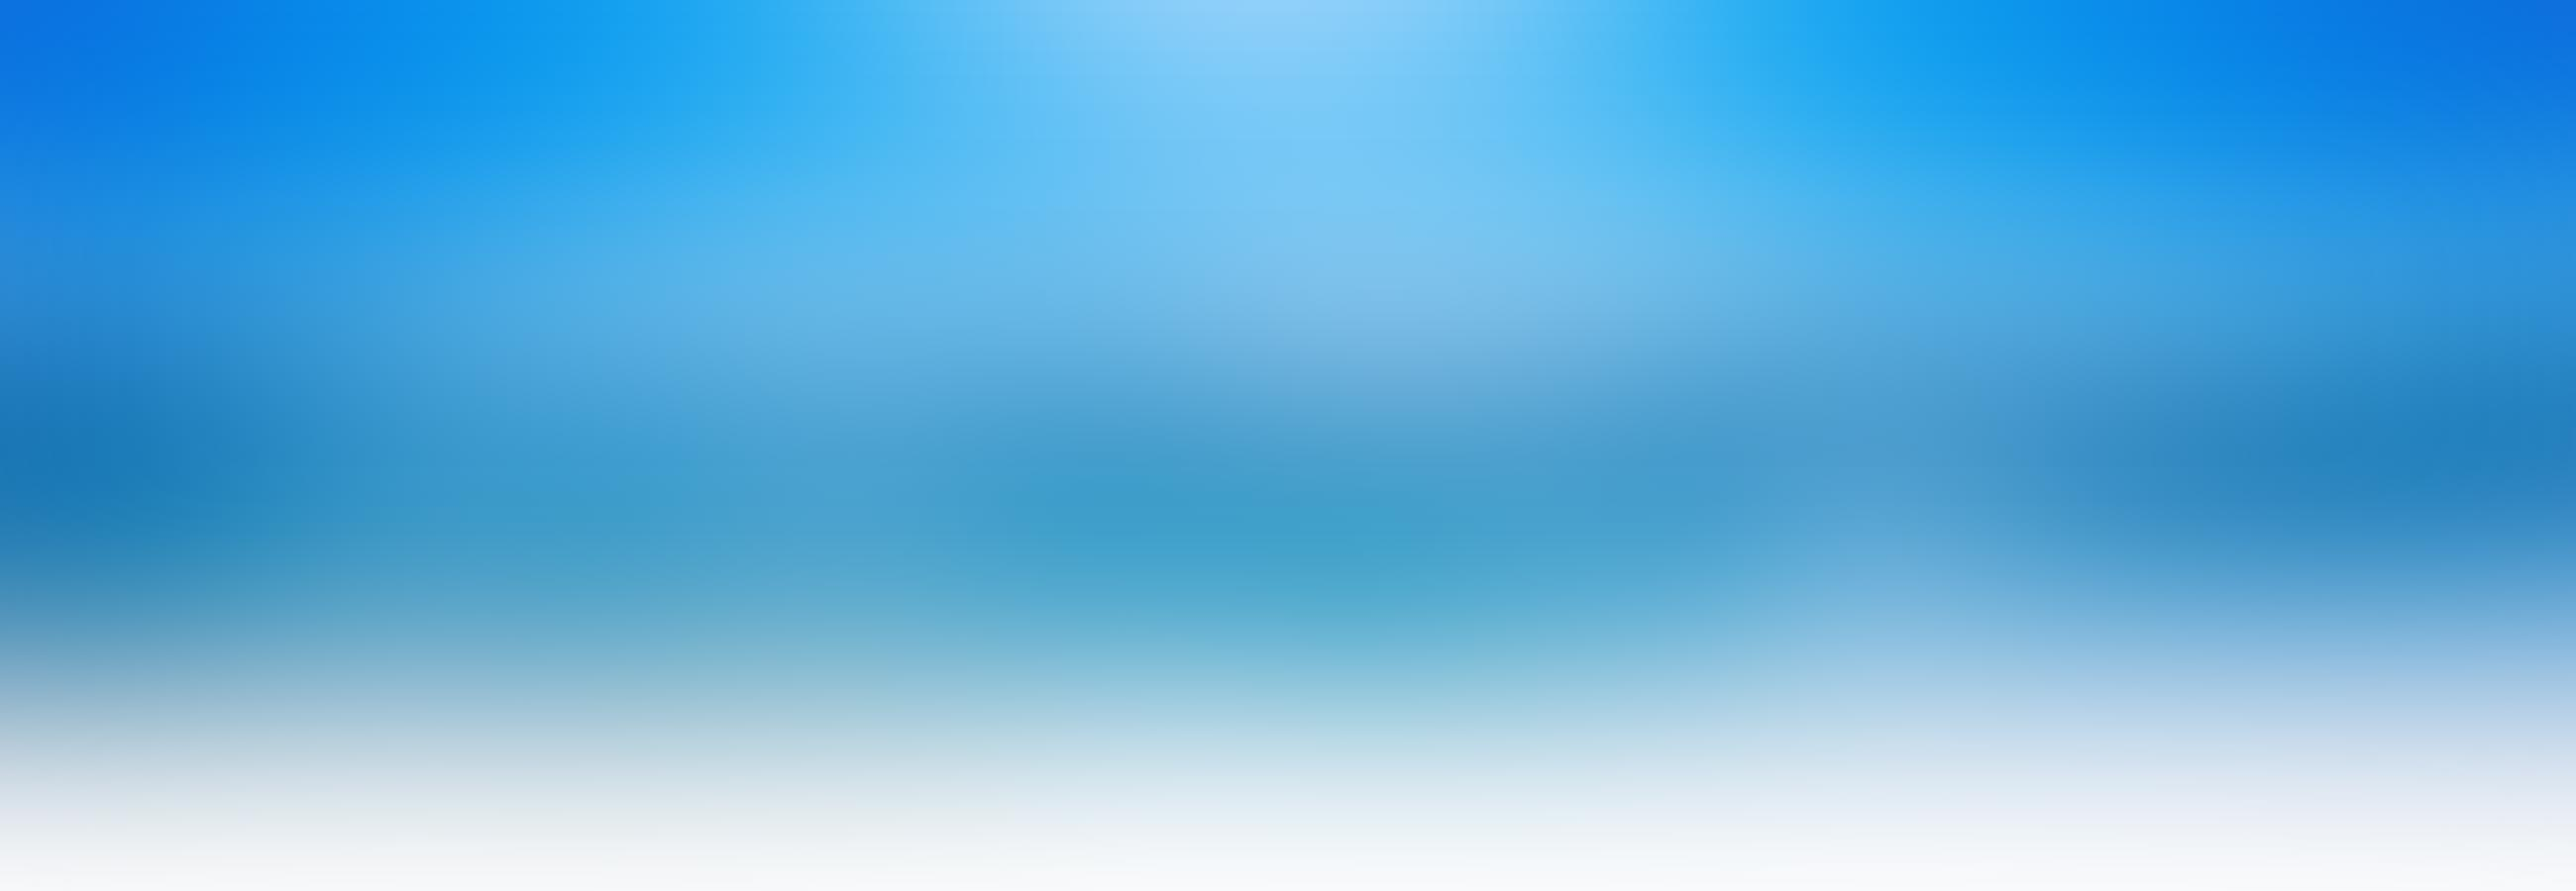
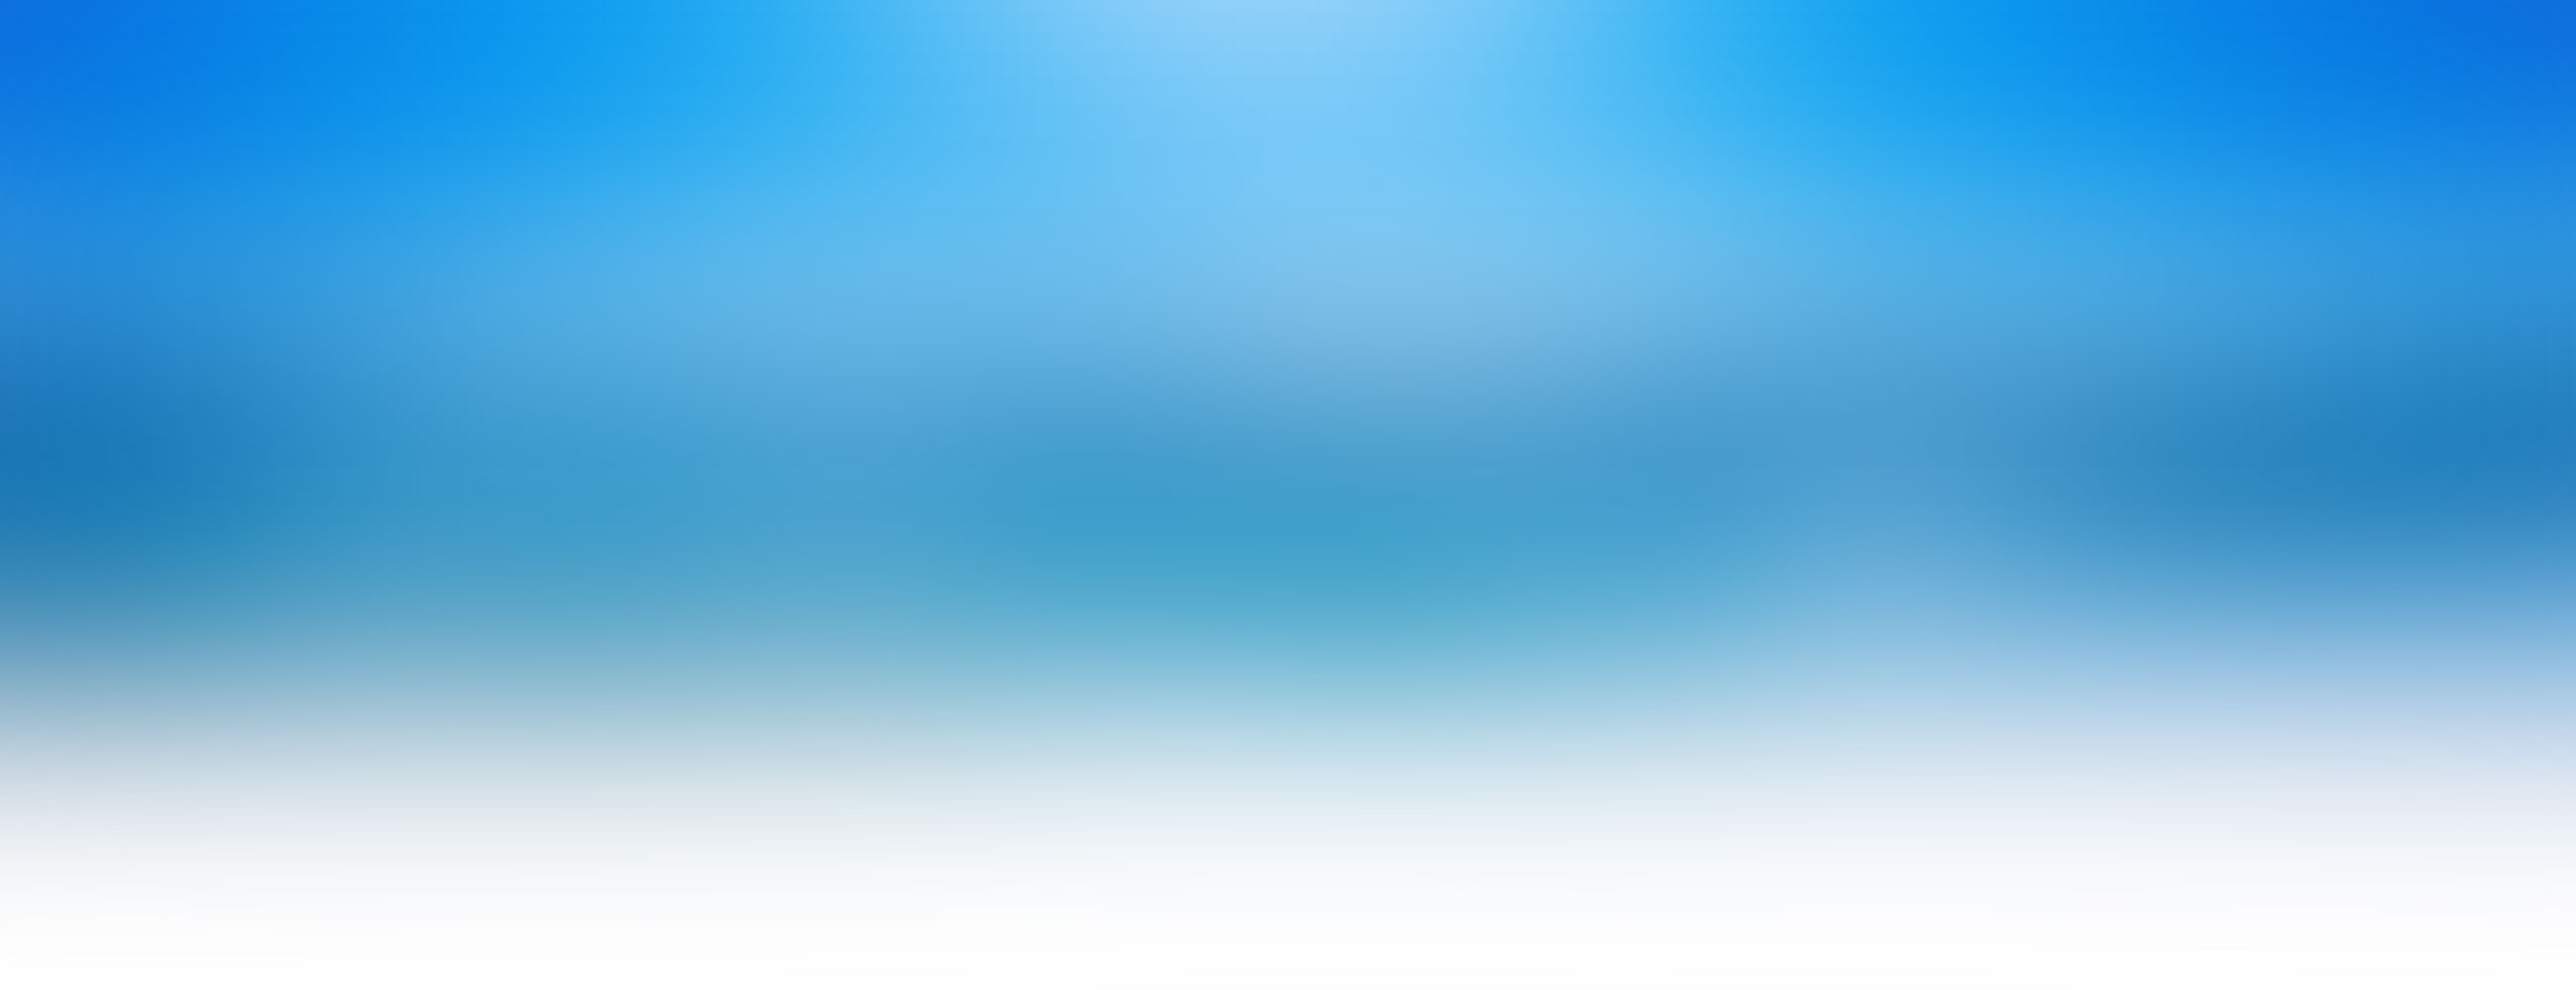
Added features

Changed region(s): [[0.0, 0.56, 1.0, 0.9333]]

diff --git a/css/main.css b/css/main.css
@@ -1,14 +1,19 @@
+/* line 12, ../scss/main.scss */
+body {
+  font-family: 'Raleway', sans-serif;
+  font-weight: 200;
+  background: url("../images/header.jpg") center top no-repeat;
+}
+
 /**
  * Header
  */
-/* line 15, ../scss/main.scss */
+/* line 20, ../scss/main.scss */
 header {
-  background: url("../images/header.jpg") center top no-repeat;
-  height: 900px;
   color: white;
 }
 
-/* line 21, ../scss/main.scss */
+/* line 24, ../scss/main.scss */
 h1 {
   font-family: 'Raleway', sans-serif;
   font-weight: 200;
@@ -20,7 +25,7 @@ h1 {
   margin-bottom: 0.6em;
 }
 
-/* line 29, ../scss/main.scss */
+/* line 32, ../scss/main.scss */
 header p {
   font-family: 'Raleway', sans-serif;
   font-weight: 200;
@@ -31,7 +36,7 @@ header p {
   margin-bottom: 2.2em;
 }
 
-/* line 38, ../scss/main.scss */
+/* line 41, ../scss/main.scss */
 .overlay {
   height: 147px px;
   padding: 30px;
@@ -39,7 +44,7 @@ header p {
   background-color: rgba(255, 255, 255, 0.4);
 }
 
-/* line 45, ../scss/main.scss */
+/* line 48, ../scss/main.scss */
 a.download-badge {
   text-indent: -9999px;
   background-image: url("../images/scarica-app-store.png");
@@ -47,7 +52,7 @@ a.download-badge {
   height: 87px;
   display: block;
 }
-/* line 52, ../scss/main.scss */
+/* line 55, ../scss/main.scss */
 a.download-badge:hover {
   background-position: 0px -87px;
 }
@@ -55,35 +60,129 @@ a.download-badge:hover {
 /**
  * Phone + icon
  */
-/* line 60, ../scss/main.scss */
+/* line 63, ../scss/main.scss */
 .phone-icon {
   margin-top: 1em;
   width: 316px;
   height: 644px;
   background: url("../images/phone-icon.png") left top no-repeat;
   float: right;
+  margin-right: 30px;
 }
 
 /**
  * General use
  */
-/* line 71, ../scss/main.scss */
+/* line 75, ../scss/main.scss */
 .container {
   max-width: 1140px;
   margin: 0 auto;
 }
 
-/* line 76, ../scss/main.scss */
+/* line 80, ../scss/main.scss */
 .frame.can-flow::after {
   clear: none;
 }
 
-/* line 80, ../scss/main.scss */
+/* line 84, ../scss/main.scss */
+.clr {
+  clear: both;
+}
+
+/**
+ * Sections for features
+ */
+/* line 91, ../scss/main.scss */
+.feature:first-of-type {
+  margin-top: 7em;
+}
+
+/* line 95, ../scss/main.scss */
+.feature {
+  margin-top: 5em;
+  margin-bottom: 5em;
+}
+/* line 100, ../scss/main.scss */
+.feature .phone {
+  background: url("../images/phone.png") left top no-repeat;
+  width: 245px;
+  height: 515px;
+  float: right;
+  margin-right: 6em;
+}
+/* line 107, ../scss/main.scss */
+.feature .phone .screen {
+  position: relative;
+  top: 76px;
+  left: 21px;
+  width: 206px;
+  height: 365px;
+}
+/* line 117, ../scss/main.scss */
+.feature .icon {
+  width: 70px;
+  height: 70px;
+  display: inline-block;
+  vertical-align: middle;
+}
+/* line 124, ../scss/main.scss */
+.feature h2 {
+  vertical-align: middle;
+  display: inline-block;
+  font-size: 2.2em;
+  font-weight: 200;
+  margin-left: 0.4em;
+}
+/* line 132, ../scss/main.scss */
+.feature p {
+  margin-top: 2em;
+  font-size: 1.4em;
+  color: #585858;
+}
+
+/**
+ * Feature: Exams
+ */
+/* line 144, ../scss/main.scss */
+.feature.exams .screen {
+  background: url("../images/screen/exams.gif") left top no-repeat;
+}
+/* line 148, ../scss/main.scss */
+.feature.exams .icon {
+  background: url("../images/feature/check.png") no-repeat;
+}
+/* line 152, ../scss/main.scss */
+.feature.exams h2 {
+  color: #ab206f;
+}
+
+/**
+ * Feature: Forecast
+ */
+/* line 161, ../scss/main.scss */
+.feature.forecast .screen {
+  background: url("../images/screen/forecast.gif") left top no-repeat;
+}
+/* line 165, ../scss/main.scss */
+.feature.forecast .icon {
+  background: url("../images/feature/forecast.png") no-repeat;
+}
+/* line 169, ../scss/main.scss */
+.feature.forecast h2 {
+  color: #1e89c1;
+}
+
+/* line 174, ../scss/main.scss */
+.padded {
+  padding-top: 4em;
+}
+
+/* line 178, ../scss/main.scss */
 .bit-60 {
   width: 60%;
 }
 
-/* line 81, ../scss/main.scss */
+/* line 179, ../scss/main.scss */
 .bit-40 {
   width: 40%;
 }

diff --git a/scss/main.scss b/scss/main.scss
@@ -9,12 +9,15 @@
 	text-shadow:         0px 2px 18px rgba(50, 50, 50, 0.29);
 }
 
+body {
+	@include use-font;
+	background: url('../images/header.jpg') center top no-repeat;
+}
+
 /**
  * Header
  */
 header {
-	background: url('../images/header.jpg') center top no-repeat;
-	height: 900px;
 	color: white;
 }
 
@@ -63,6 +66,7 @@ a.download-badge {
 	height: 644px;
 	background: url('../images/phone-icon.png') left top no-repeat;
 	float: right;
+	margin-right: $overlay-padding;
 }
 
 /**
@@ -75,6 +79,100 @@ a.download-badge {
 
 .frame.can-flow::after {
 	clear: none;
+}
+
+.clr {
+	clear: both;
+}
+
+/**
+ * Sections for features
+ */
+.feature:first-of-type {
+	margin-top: 7em;
+}
+
+.feature {
+	
+	margin-top: 5em;
+	margin-bottom: 5em;
+	
+	.phone {
+		background: url('../images/phone.png') left top no-repeat;
+		width: 245px;
+		height: 515px;
+		float: right;
+		margin-right: 6em;
+		
+		.screen {
+			position: relative;
+			top: 76px;
+			left: 21px;
+			width: 206px;
+			height: 365px;
+		}
+	}
+	
+	// Symbols
+	.icon {
+		width: 70px;
+		height: 70px;
+		display: inline-block;
+		vertical-align: middle;
+	}
+	
+	h2 {
+		vertical-align: middle;
+		display: inline-block;
+		font-size: 2.2em;
+		font-weight: 200;
+		margin-left: 0.4em;
+	}
+	
+	p {
+		margin-top: 2em;
+		font-size: 1.4em;
+		color: #585858;
+	}
+}
+
+
+/**
+ * Feature: Exams
+ */
+.feature.exams {
+	.screen {
+		background: url('../images/screen/exams.gif') left top no-repeat;
+	}
+	
+	.icon {
+		background: url('../images/feature/check.png') no-repeat;
+	}
+	
+	h2 {
+		color: #ab206f;
+	}
+}
+
+/**
+ * Feature: Forecast
+ */
+.feature.forecast {
+	.screen {
+		background: url('../images/screen/forecast.gif') left top no-repeat;
+	}
+	
+	.icon {
+		background: url('../images/feature/forecast.png') no-repeat;
+	}
+	
+	h2 {
+		color: #1e89c1;
+	}
+}
+
+.padded {
+	padding-top: 4em;
 }
 
 .bit-60 {width:60%}

diff --git a/index.html b/index.html
@@ -46,5 +46,46 @@
 				</div>
 			</div>
 		</header>
+		
+		<div class="clr"></div>
+		
+		<!-- Feature: Exams -->
+		<section class="frame container feature exams">
+			<div class="bit-40">
+				<div class="phone">
+					<div class="screen">
+						
+					</div>
+				</div>
+			</div>
+			<div class="bit-60 padded">
+				<div class="icon"></div>
+				<h2>Tutto sotto controllo.</h2>
+				
+				<p>
+					Rivedi i tuoi esami comodamente, tenendo d&rsquo;occhio voto e crediti con facilit&agrave;.<br />
+					In pi&ugrave; puoi tenere d&rsquo;occhio i tuoi prossimi appelli, per non perderti fra le sessioni.
+				</p>
+			</div>
+		</section>
+		
+		<!-- Feature: Forecast -->
+		<section class="frame container feature forecast">
+			<div class="bit-60 padded">
+				<div class="icon"></div>
+				<h2>Prevedi i tuoi risultati.</h2>
+				
+				<p>
+					Aggiungi esami da sostenere per organizzare i tuoi tempi, imposta il voto che credi di ottenere e calcola al volo la media prevista.
+				</p>
+			</div>
+			<div class="bit-40">
+				<div class="phone">
+					<div class="screen">
+						
+					</div>
+				</div>
+			</div>
+		</section>
 	</body>
 </html>
